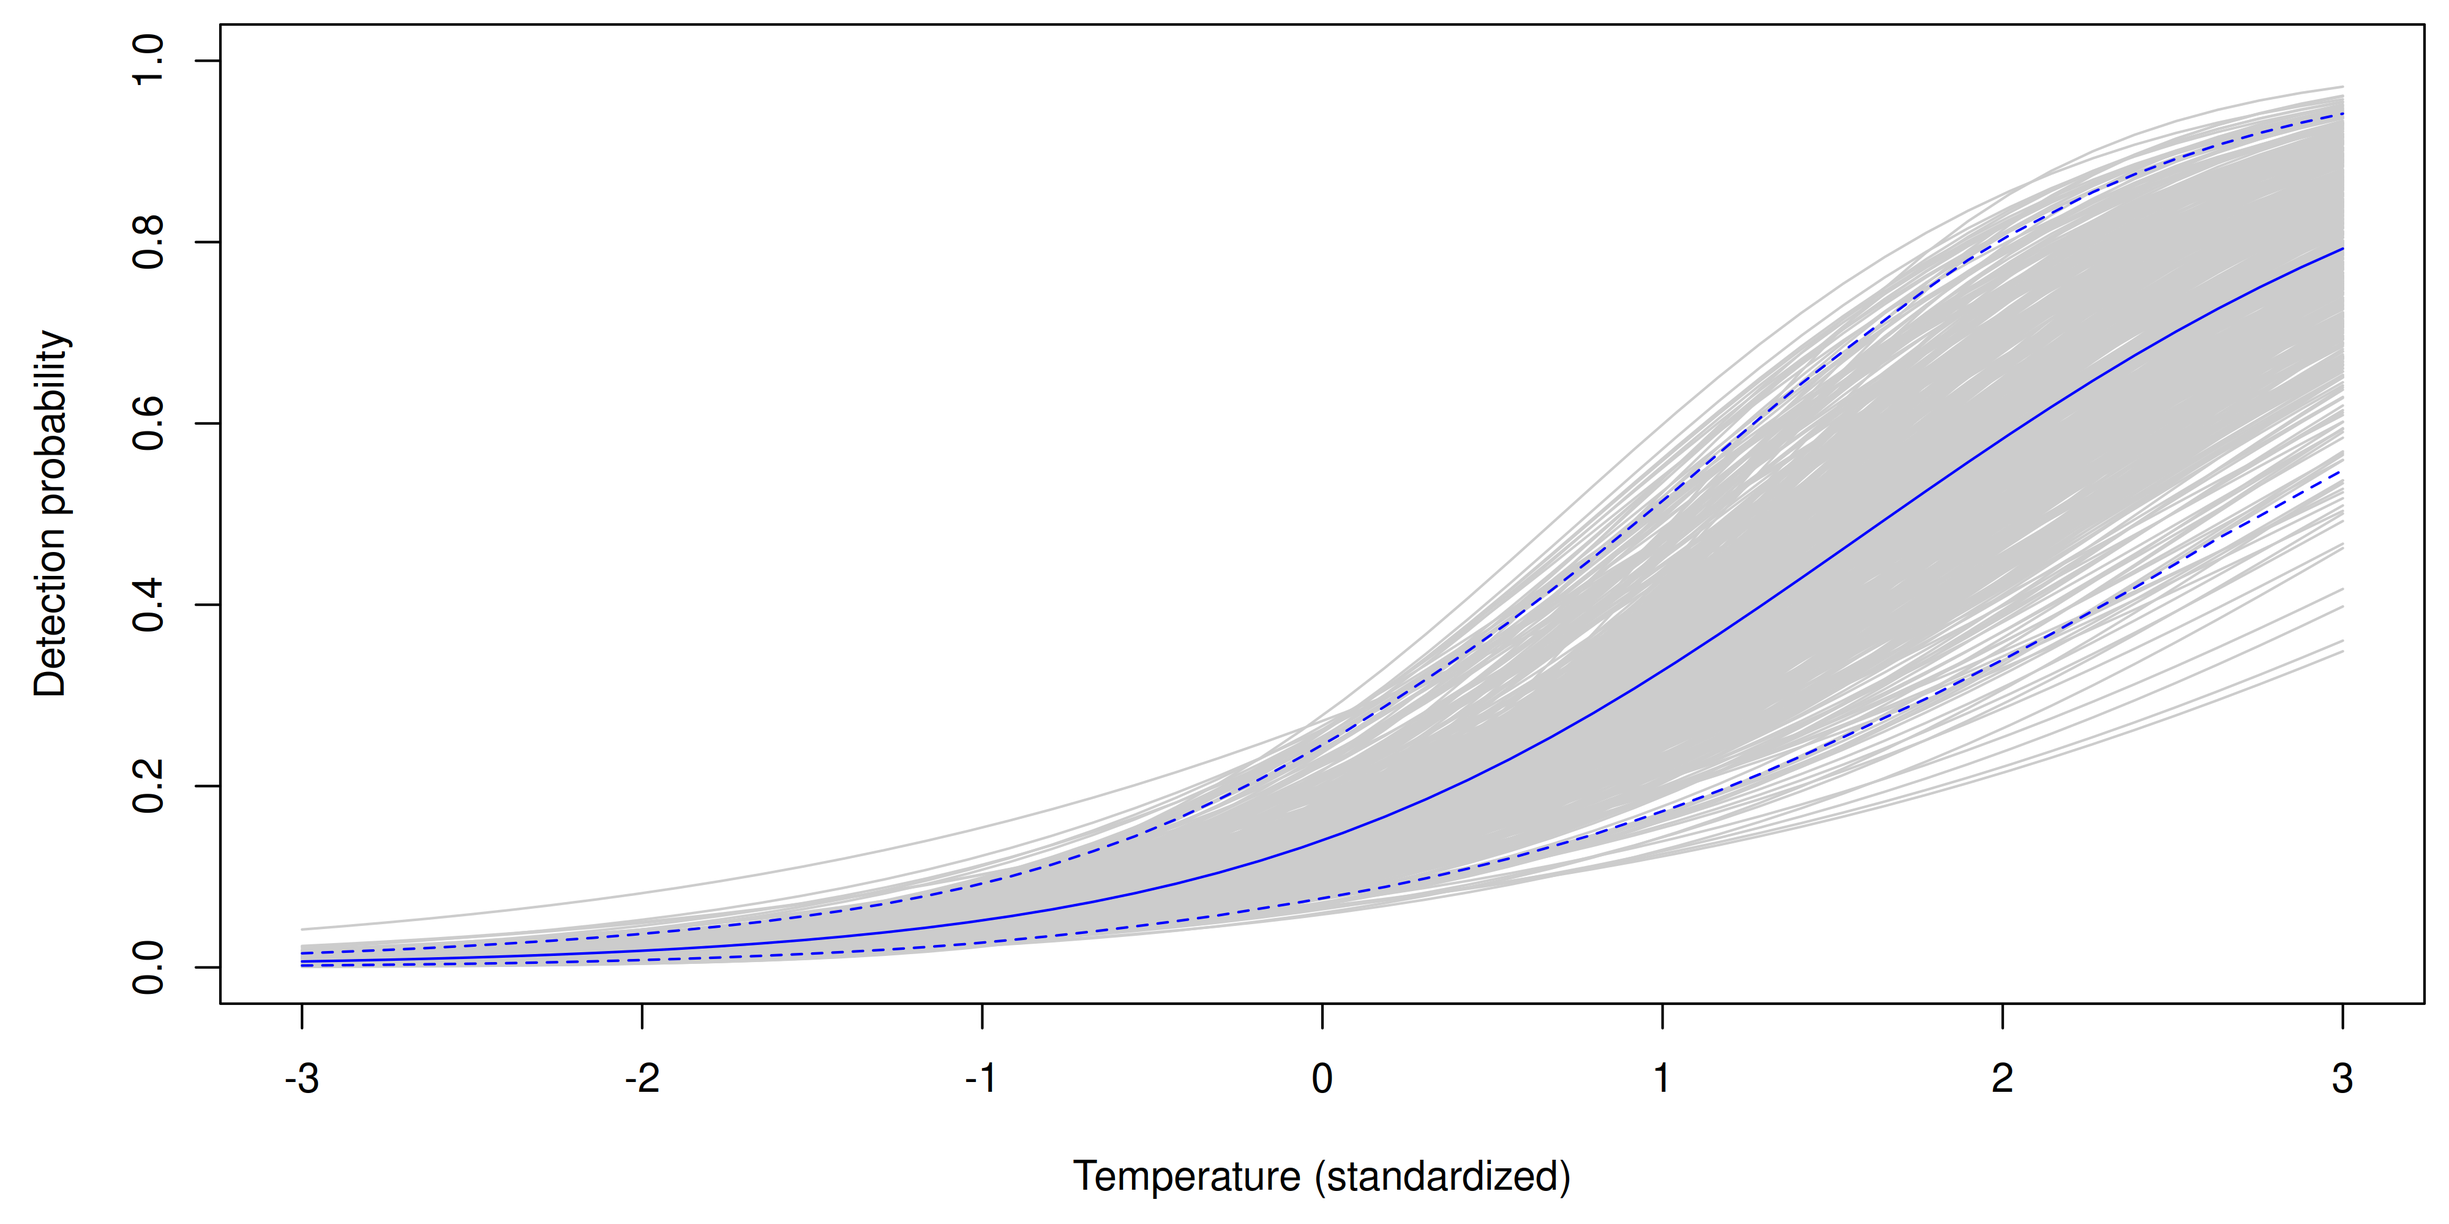
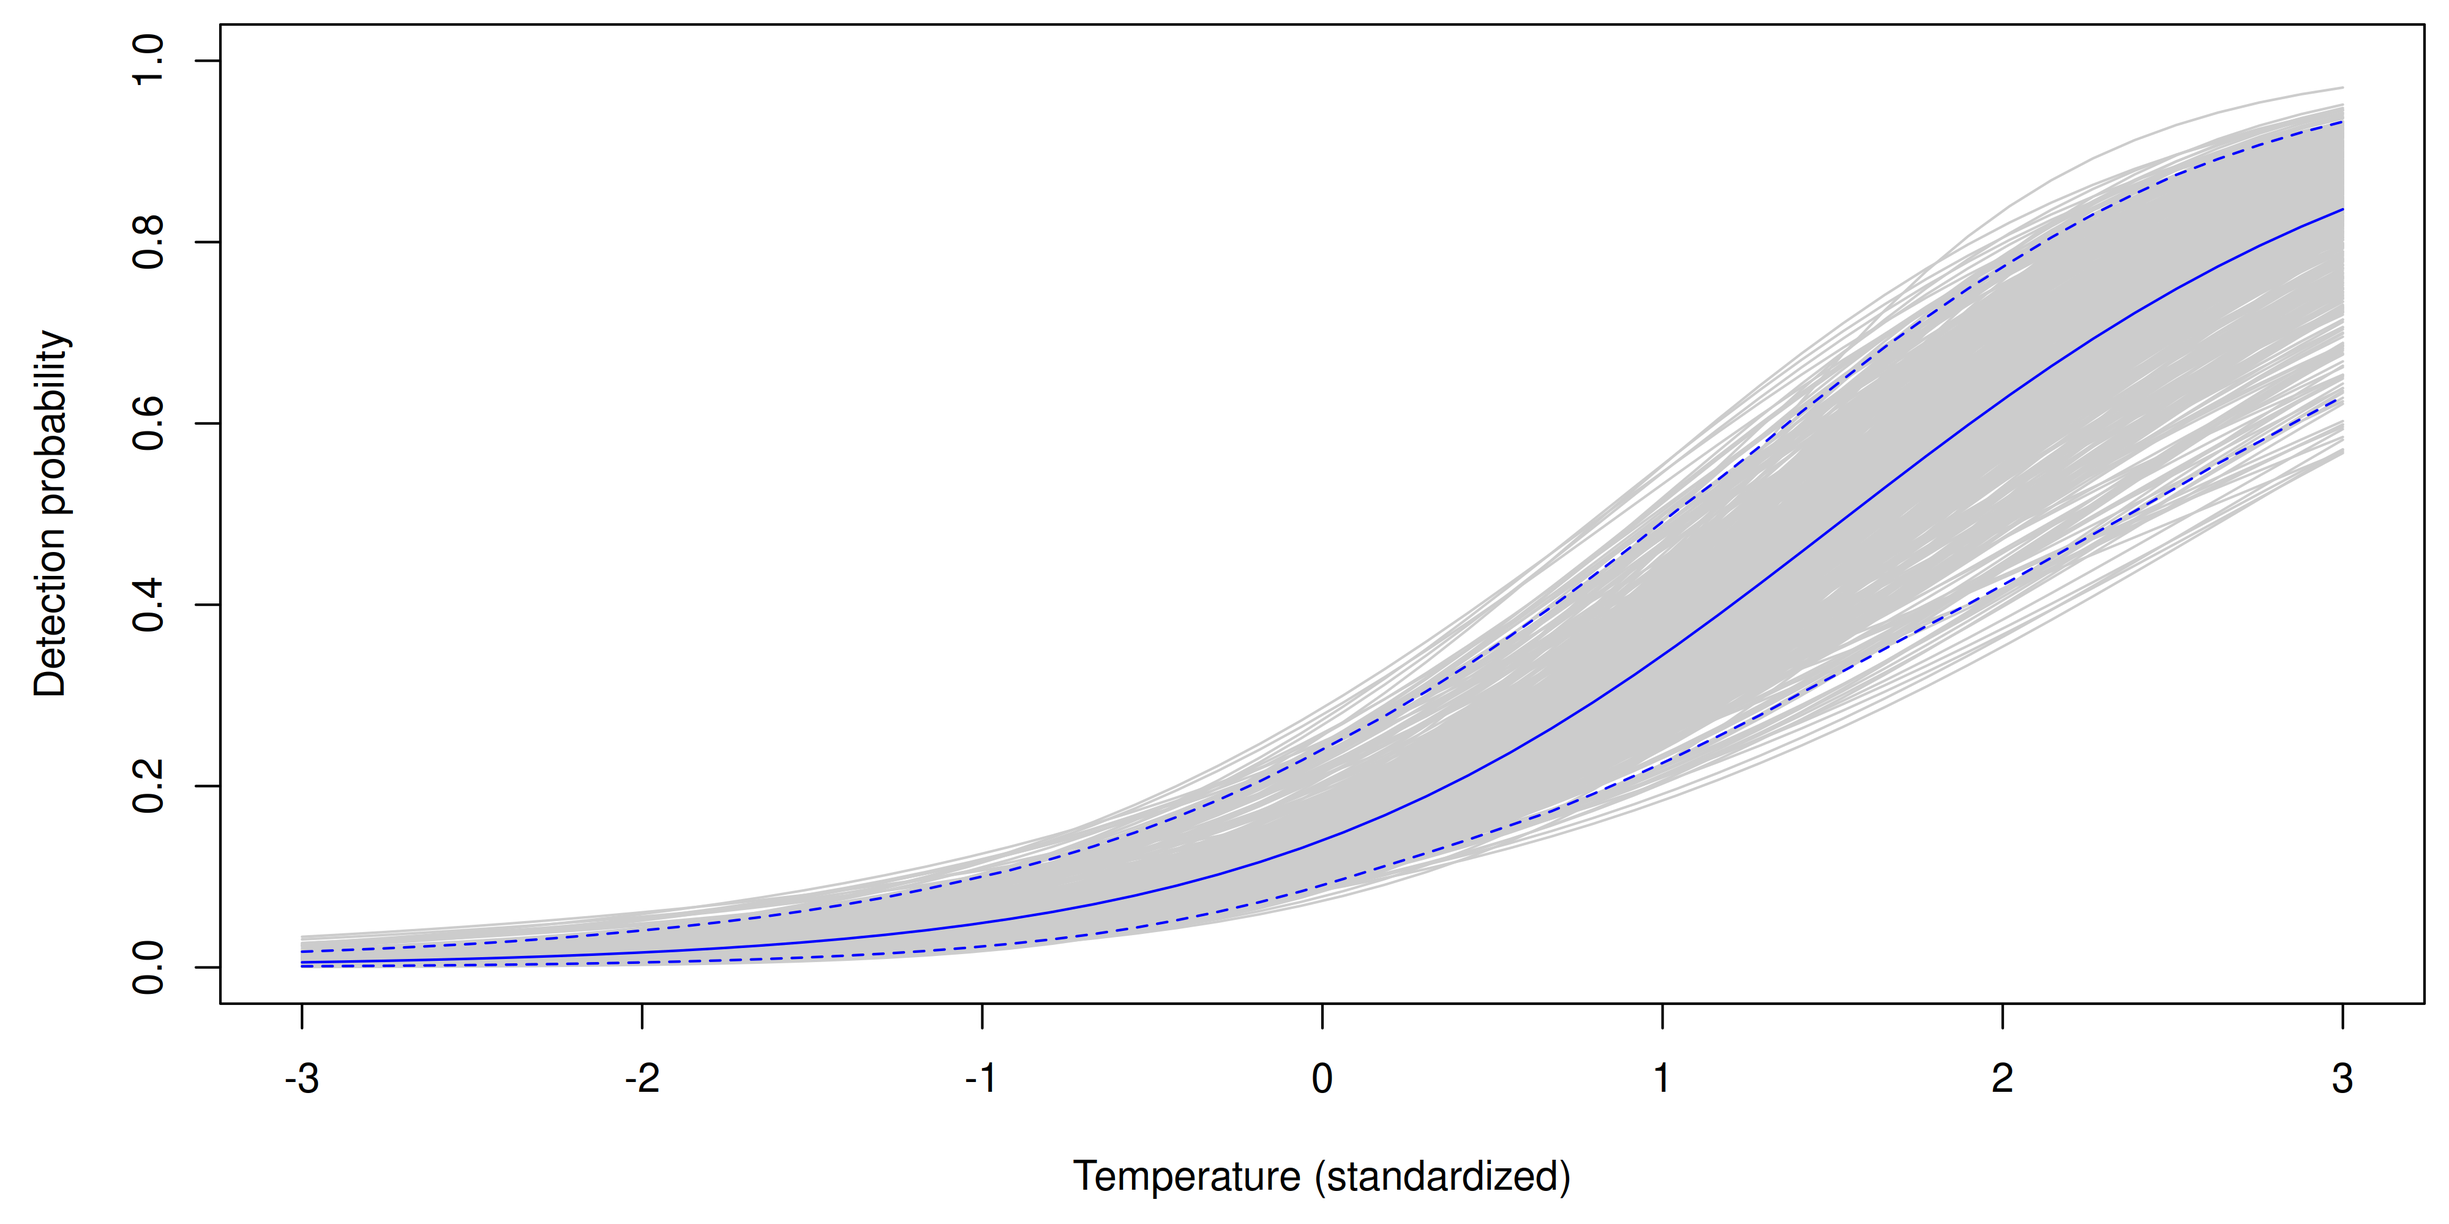
nmix

diff --git a/docs/lectures/Nmix-binI/lecture-Nmix-binomial-I.html b/docs/lectures/Nmix-binI/lecture-Nmix-binomial-I.html
@@ -236,6 +236,8 @@
     y_{ij} \sim \mathrm{Binomial}(N_i, p_{ij})
 \end{gather*}
 \]</span></p>
+</div>
+<div style="font-size: 60%;">
 <p>Definitions <br> <span class="math inline">\(\lambda_i\)</span> – Expected value of abundance at site <span class="math inline">\(i\)</span> <br> <span class="math inline">\(N_i\)</span> – Realized value of abundance at site <span class="math inline">\(i\)</span> <br> <span class="math inline">\(p_{ij}\)</span> – Probability of detecting at site <span class="math inline">\(i\)</span> on occasion <span class="math inline">\(j\)</span> <br> <span class="math inline">\(y_{ij}\)</span> – Count data <br> <span class="math inline">\(\color{blue} x_1\)</span> and <span class="math inline">\(\color{blue} x_2\)</span> – site covariates <br> <span class="math inline">\(\color{Purple} w\)</span> – observation covariate</p>
 </div>
 </section></section>
@@ -278,7 +280,7 @@
 </section>
 <section id="simulation-covariates" class="slide level2">
 <h2>Simulation – Covariates</h2>
-<div style="font-size: 90%;">
+<div style="font-size: 80%;">
 <div class="cell">
 <div class="code-copy-outer-scaffold"><div class="sourceCode cell-code" id="cb5"><pre class="sourceCode numberSource r number-lines code-with-copy"><code class="sourceCode r"><span id="cb5-1"><a></a>forest <span class="ot">&lt;-</span> <span class="fu">factor</span>(<span class="fu">sample</span>(<span class="fu">c</span>(<span class="st">"Hardwood"</span>, <span class="st">"Mixed"</span>, <span class="st">"Pine"</span>), nSites, <span class="at">replace=</span><span class="cn">TRUE</span>))</span>
 <span id="cb5-2"><a></a>forestMixed <span class="ot">&lt;-</span> <span class="fu">ifelse</span>(forest<span class="sc">==</span><span class="st">"Mixed"</span>, <span class="dv">1</span>, <span class="dv">0</span>)        <span class="do">## Dummy</span></span>
@@ -306,7 +308,7 @@
 </section>
 <section id="simulated-data" class="slide level2">
 <h2>Simulated data</h2>
-<div style="font-size: 90%;">
+<div style="font-size: 85%;">
 <div class="columns">
 <div class="column" style="width:40%;">
 <p>Observations</p>
@@ -375,6 +377,7 @@
 </section>
 <section id="prepare-data-in-unmarked" class="slide level2">
 <h2>Prepare data in ‘unmarked’</h2>
+<div style="font-size: 80%;">
 <div class="cell">
 <div class="code-copy-outer-scaffold"><div class="sourceCode cell-code" id="cb16"><pre class="sourceCode numberSource r number-lines code-with-copy"><code class="sourceCode r"><span id="cb16-1"><a></a>umf <span class="ot">&lt;-</span> <span class="fu">unmarkedFramePCount</span>(<span class="at">y=</span>y2, <span class="at">siteCovs=</span><span class="fu">data.frame</span>(forest), <span class="at">obsCovs=</span><span class="fu">list</span>(<span class="at">temp=</span>temp))</span>
 <span id="cb16-2"><a></a><span class="fu">summary</span>(umf)</span></code></pre></div><button title="Copy to Clipboard" class="code-copy-button"><i class="bi"></i></button></div>
@@ -406,10 +409,11 @@ Observation-level covariates:
  Max.   : 3.001200  </code></pre>
 </div>
 </div>
+</div>
 </section>
 <section id="fit-the-model-without-covariates" class="slide level2">
 <h2>Fit the model – without covariates</h2>
-<div style="font-size: 80%;">
+<div style="font-size: 60%;">
 <p><code>pcount</code> is similar to <code>occu</code>, but there’s a new argument (<code>K</code>) that should be an integer much greater than the highest possible value of local abundance.</p>
 <div class="cell">
 <div class="code-copy-outer-scaffold"><div class="sourceCode cell-code" id="cb18"><pre class="sourceCode numberSource r number-lines code-with-copy"><code class="sourceCode r"><span id="cb18-1"><a></a>fm0 <span class="ot">&lt;-</span> <span class="fu">pcount</span>(<span class="sc">~</span><span class="dv">1</span> <span class="sc">~</span><span class="dv">1</span>, umf, <span class="at">K=</span><span class="dv">100</span>)    </span>
@@ -431,6 +435,7 @@ AIC: 459.6769
 Number of sites: 100</code></pre>
 </div>
 </div>
+<div class="fragment">
 <p>We can use <code>backTransform</code> to obtain estimate of average abundance at each site because there aren’t covariates:</p>
 <div class="cell">
 <div class="code-copy-outer-scaffold"><div class="sourceCode cell-code" id="cb20"><pre class="sourceCode numberSource r number-lines code-with-copy"><code class="sourceCode r"><span id="cb20-1"><a></a><span class="fu">backTransform</span>(fm0, <span class="at">type=</span><span class="st">"state"</span>)</span></code></pre></div><button title="Copy to Clipboard" class="code-copy-button"><i class="bi"></i></button></div>
@@ -444,10 +449,11 @@ Transformation: exp </code></pre>
 </div>
 </div>
 </div>
+</div>
 </section>
 <section id="fit-the-model-with-covariates" class="slide level2">
 <h2>Fit the model – with covariates</h2>
-<div style="font-size: 80%;">
+<div style="font-size: 70%;">
 <p>Detection depends on <code>temp</code>. Abundance depends on <code>forest</code>.</p>
 <div class="cell">
 <div class="code-copy-outer-scaffold"><div class="sourceCode cell-code" id="cb22"><pre class="sourceCode numberSource r number-lines code-with-copy"><code class="sourceCode r"><span id="cb22-1"><a></a>fm <span class="ot">&lt;-</span> <span class="fu">pcount</span>(<span class="sc">~</span>temp <span class="sc">~</span>forest, umf, <span class="at">K=</span><span class="dv">100</span>)    </span>
@@ -499,6 +505,7 @@ Number of sites: 100</code></pre>
          -0.3260          -0.3258           1.2073          -1.9615           1.1760 </code></pre>
 </div>
 </div>
+<div class="fragment">
 <p>Looks good:</p>
 <div class="cell">
 <div class="code-copy-outer-scaffold"><div class="sourceCode cell-code" id="cb29"><pre class="sourceCode numberSource r number-lines code-with-copy"><code class="sourceCode r"><span id="cb29-1"><a></a>fm.test <span class="ot">&lt;-</span> <span class="fu">pcount</span>(<span class="sc">~</span>temp <span class="sc">~</span>forest, umf, <span class="at">K=</span><span class="dv">150</span>)    </span>
@@ -508,7 +515,10 @@ Number of sites: 100</code></pre>
          -0.3260          -0.3258           1.2073          -1.9615           1.1760 </code></pre>
 </div>
 </div>
-<p>If the estimates do change, increase <span class="math inline">\(K\)</span> until they stabilize.</p>
+</div>
+<div class="fragment">
+<p><br> If the estimates do change, increase <span class="math inline">\(K\)</span> until they stabilize.</p>
+</div>
 </div>
 </section>
 <section id="empirical-bayes-site-level-abundance" class="slide level2">
@@ -521,12 +531,19 @@ Number of sites: 100</code></pre>
 <img data-src="lecture-Nmix-binomial-I_files/figure-revealjs/ranef-1.png" class="quarto-figure quarto-figure-center r-stretch" style="width:80.0%"></section>
 <section id="total-abundance-in-surveyed-region" class="slide level2">
 <h2>Total abundance (in surveyed region)</h2>
+<div style="font-size: 80%;">
 <div class="cell" data-layout-align="center">
 <div class="code-copy-outer-scaffold"><div class="sourceCode cell-code" id="cb32"><pre class="sourceCode numberSource r number-lines code-with-copy"><code class="sourceCode r"><span id="cb32-1"><a></a>N.total.post <span class="ot">&lt;-</span> <span class="fu">predict</span>(re, <span class="at">func=</span>sum, <span class="at">nsim=</span><span class="dv">1000</span>)</span>
 <span id="cb32-2"><a></a><span class="fu">hist</span>(N.total.post, <span class="at">freq=</span><span class="cn">FALSE</span>, <span class="at">main=</span><span class="st">""</span>, <span class="at">xlab=</span><span class="st">"N total"</span>, <span class="at">ylab=</span><span class="st">"Probability"</span>)</span></code></pre></div><button title="Copy to Clipboard" class="code-copy-button"><i class="bi"></i></button></div>
-
+<div class="cell-output-display">
+<div class="quarto-figure quarto-figure-center">
+<figure>
+<p><img data-src="lecture-Nmix-binomial-I_files/figure-revealjs/Ntotal-1.png" class="quarto-figure quarto-figure-center" style="width:40.0%"></p>
+</figure>
 </div>
-<img data-src="lecture-Nmix-binomial-I_files/figure-revealjs/Ntotal-1.png" class="quarto-figure quarto-figure-center r-stretch" style="width:40.0%"><p>Estimate of total abundance in sampled area, with 95% CI:</p>
+</div>
+</div>
+<p>Estimate of total abundance in sampled area, with 95% CI:</p>
 <div class="cell">
 <div class="code-copy-outer-scaffold"><div class="sourceCode cell-code" id="cb33"><pre class="sourceCode numberSource r number-lines code-with-copy"><code class="sourceCode r"><span id="cb33-1"><a></a><span class="fu">c</span>(<span class="at">Estimate=</span><span class="fu">mean</span>(N.total.post), <span class="fu">quantile</span>(N.total.post, <span class="at">prob=</span><span class="fu">c</span>(<span class="fl">0.025</span>, <span class="fl">0.975</span>)))</span></code></pre></div><button title="Copy to Clipboard" class="code-copy-button"><i class="bi"></i></button></div>
 <div class="cell-output cell-output-stdout">
@@ -534,19 +551,24 @@ Number of sites: 100</code></pre>
  128.402  113.000  144.000 </code></pre>
 </div>
 </div>
+</div>
 </section>
 <section id="prediction-in-unmarked" class="slide level2">
 <h2>Prediction in `unmarked’</h2>
+<div style="font-size: 80%;">
 <p>Create <code>data.frame</code> with prediction covariates.</p>
 <div class="cell">
 <div class="code-copy-outer-scaffold"><div class="sourceCode cell-code" id="cb35"><pre class="sourceCode numberSource r number-lines code-with-copy"><code class="sourceCode r"><span id="cb35-1"><a></a>pred.data <span class="ot">&lt;-</span> <span class="fu">data.frame</span>(<span class="at">forest=</span><span class="fu">c</span>(<span class="st">"Hardwood"</span>, <span class="st">"Mixed"</span>, <span class="st">"Pine"</span>),</span>
 <span id="cb35-2"><a></a>                        <span class="at">temp=</span><span class="dv">0</span>) </span></code></pre></div><button title="Copy to Clipboard" class="code-copy-button"><i class="bi"></i></button></div>
 </div>
+<div class="fragment">
 <p>Get predictions of <span class="math inline">\(\lambda\)</span> for each row of prediction data.</p>
 <div class="cell">
 <div class="code-copy-outer-scaffold"><div class="sourceCode cell-code" id="cb36"><pre class="sourceCode numberSource r number-lines code-with-copy"><code class="sourceCode r"><span id="cb36-1"><a></a>lambda.pred <span class="ot">&lt;-</span> <span class="fu">predict</span>(fm, <span class="at">newdata=</span>pred.data,</span>
 <span id="cb36-2"><a></a>                       <span class="at">type=</span><span class="st">'state'</span>, <span class="at">append=</span><span class="cn">TRUE</span>)</span></code></pre></div><button title="Copy to Clipboard" class="code-copy-button"><i class="bi"></i></button></div>
 </div>
+</div>
+<div class="fragment">
 <p>View <span class="math inline">\(\lambda\)</span> predictions</p>
 <div class="cell">
 <div class="code-copy-outer-scaffold"><div class="sourceCode cell-code" id="cb37"><pre class="sourceCode numberSource r number-lines code-with-copy"><code class="sourceCode r"><span id="cb37-1"><a></a><span class="fu">print</span>(<span class="fu">head</span>(lambda.pred), <span class="at">digits=</span><span class="dv">2</span>)</span></code></pre></div><button title="Copy to Clipboard" class="code-copy-button"><i class="bi"></i></button></div>
@@ -557,19 +579,30 @@ Number of sites: 100</code></pre>
 3      2.41 0.64  1.44   4.0     Pine    0</code></pre>
 </div>
 </div>
+</div>
+</div>
 </section>
 <section id="prediction-in-unmarked-1" class="slide level2">
 <h2>Prediction in `unmarked’</h2>
+<div style="font-size: 80%;">
 <div class="cell" data-layout-align="center">
 <div class="code-copy-outer-scaffold"><div class="sourceCode cell-code" id="cb39"><pre class="sourceCode numberSource r number-lines code-with-copy"><code class="sourceCode r"><span id="cb39-1"><a></a>bpx <span class="ot">&lt;-</span> <span class="fu">barplot</span>(lambda.pred<span class="sc">$</span>Predicted, <span class="at">ylab=</span><span class="st">"Expected value of abundance"</span>, <span class="co">#col="blue",</span></span>
 <span id="cb39-2"><a></a>               <span class="at">ylim=</span><span class="fu">c</span>(<span class="dv">0</span>,<span class="fl">3.5</span>), <span class="at">names=</span>lambda.pred<span class="sc">$</span>forest, <span class="at">xlab=</span><span class="st">"Forest type"</span>); <span class="fu">box</span>()</span>
 <span id="cb39-3"><a></a><span class="fu">arrows</span>(bpx, lambda.pred<span class="sc">$</span>Predicted, bpx, lambda.pred<span class="sc">$</span>Predicted<span class="sc">+</span>lambda.pred<span class="sc">$</span>SE,</span>
 <span id="cb39-4"><a></a>       <span class="at">angle=</span><span class="dv">90</span>, <span class="at">length=</span><span class="fl">0.1</span>)</span></code></pre></div><button title="Copy to Clipboard" class="code-copy-button"><i class="bi"></i></button></div>
-
+<div class="cell-output-display">
+<div class="quarto-figure quarto-figure-center">
+<figure>
+<p><img data-src="lecture-Nmix-binomial-I_files/figure-revealjs/pred-psi1-1.png" class="quarto-figure quarto-figure-center" style="width:80.0%"></p>
+</figure>
 </div>
-<img data-src="lecture-Nmix-binomial-I_files/figure-revealjs/pred-psi1-1.png" class="quarto-figure quarto-figure-center r-stretch" style="width:80.0%"></section>
+</div>
+</div>
+</div>
+</section>
 <section id="the-bugs-model-without-covariates" class="slide level2">
 <h2>The BUGS model – without covariates</h2>
+<p><a href="Nmix-model.jag">Nmix-model.jag</a></p>
 <div class="cell">
 <div class="cell-output cell-output-stdout">
 <pre><code>model {
@@ -687,22 +720,22 @@ Sample size per chain = 2000
    plus standard error of the mean:
 
                    Mean      SD Naive SE Time-series SE
-beta0           -0.3871  0.3736 0.004823        0.04629
-beta1           -0.3078  0.4155 0.005364        0.03895
-beta2            1.2016  0.3337 0.004308        0.02937
-alpha0          -1.8511  0.3231 0.004171        0.07751
-alpha1           1.1039  0.1696 0.002189        0.02088
-totalAbundance 127.2697 32.9265 0.425079        8.69716
+beta0           -0.3929  0.3311 0.004274        0.03587
+beta1           -0.4117  0.4693 0.006059        0.04957
+beta2            1.1824  0.3124 0.004033        0.02593
+alpha0          -1.8476  0.3007 0.003882        0.06867
+alpha1           1.1899  0.1791 0.002313        0.02768
+totalAbundance 121.1325 21.5948 0.278787        4.08153
 
 2. Quantiles for each variable:
 
                   2.5%      25%      50%       75%    97.5%
-beta0          -1.1137  -0.6436  -0.3899  -0.12712   0.3265
-beta1          -1.1247  -0.5817  -0.3046  -0.03193   0.5093
-beta2           0.6117   0.9680   1.1744   1.43482   1.8845
-alpha0         -2.4933  -2.0475  -1.8590  -1.66871  -1.1220
-alpha1          0.8097   0.9734   1.1009   1.21573   1.4424
-totalAbundance 83.0000 106.0000 120.0000 141.00000 217.0000</code></pre>
+beta0          -1.0624  -0.6132  -0.3849  -0.15200   0.1964
+beta1          -1.3734  -0.7373  -0.3883  -0.05767   0.3914
+beta2           0.6067   0.9652   1.1756   1.38706   1.8294
+alpha0         -2.3059  -2.0827  -1.8788  -1.65230  -1.1511
+alpha1          0.8120   1.0763   1.1949   1.31499   1.4999
+totalAbundance 82.9750 106.0000 121.0000 135.00000 168.0000</code></pre>
 </div>
 </div>
 </section>
@@ -735,11 +768,11 @@ totalAbundance 83.0000 106.0000 120.0000 141.00000 217.0000</code></pre>
 <div class="code-copy-outer-scaffold"><div class="sourceCode cell-code" id="cb54"><pre class="sourceCode numberSource r number-lines code-with-copy"><code class="sourceCode r"><span id="cb54-1"><a></a>p.coef.post <span class="ot">&lt;-</span> <span class="fu">as.matrix</span>(jags.post.samples[,<span class="fu">c</span>(<span class="st">"alpha0"</span>,<span class="st">"alpha1"</span>)])</span>
 <span id="cb54-2"><a></a><span class="fu">head</span>(p.coef.post, <span class="at">n=</span><span class="dv">4</span>)</span></code></pre></div><button title="Copy to Clipboard" class="code-copy-button"><i class="bi"></i></button></div>
 <div class="cell-output cell-output-stdout">
-<pre><code>        alpha0   alpha1
-[1,] -1.303666 1.050269
-[2,] -1.274961 1.076019
-[3,] -1.235899 1.088720
-[4,] -1.240720 1.135631</code></pre>
+<pre><code>        alpha0    alpha1
+[1,] -1.168063 0.8492890
+[2,] -1.159962 0.8759836
+[3,] -1.175225 0.8804013
+[4,] -1.161900 0.8326993</code></pre>
 </div>
 </div>
 <p>Create prediction matrix, one row for each MCMC iteration.</p>
